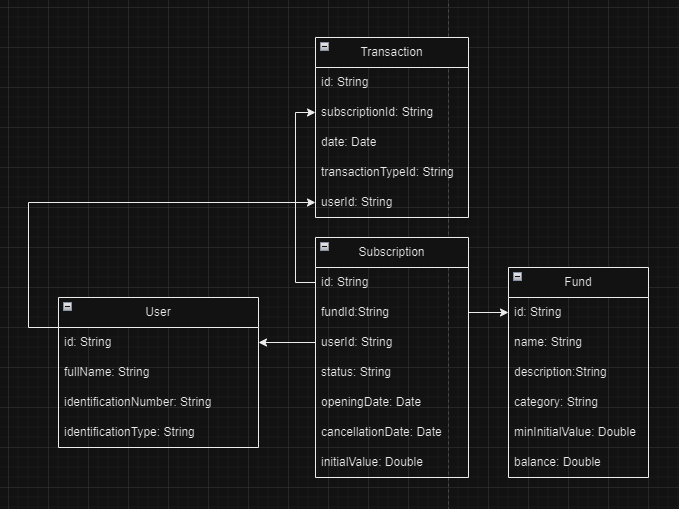
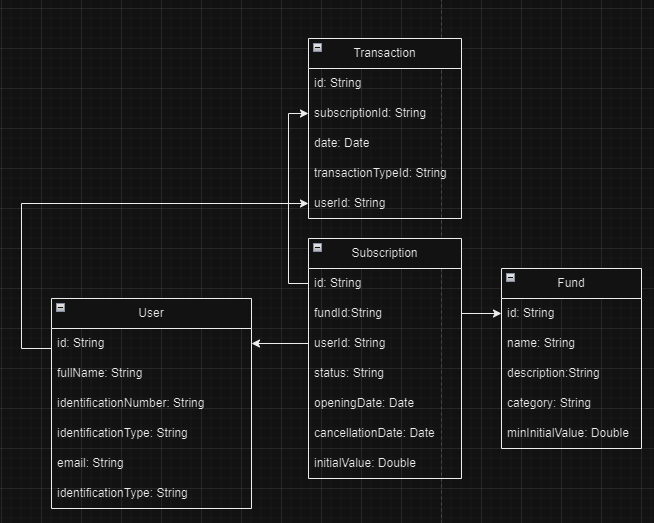
Add config email in TransactionService

Changed region(s): [[0.0306, 0.0589, 0.9786, 0.9725], [0.0306, 0.4715, 0.0612, 0.501]]

diff --git a/src/main/java/com/co/fundmanagement/service/impl/EmailService.java b/src/main/java/com/co/fundmanagement/service/impl/EmailService.java
@@ -8,6 +8,9 @@ import org.springframework.mail.javamail.JavaMailSender;
 import org.springframework.stereotype.Service;
 import reactor.core.publisher.Mono;
 
+import static com.co.fundmanagement.enums.MessageEnum.MESSAGE_SEND_EMAIL;
+import static com.co.fundmanagement.enums.MessageEnum.SUBJECT;
+
 @Service
 public class EmailService implements IEmailService {
 
@@ -18,12 +21,12 @@ public class EmailService implements IEmailService {
     private JavaMailSender mailSender;
 
     @Override
-    public Mono<Void> sendEmail(String toUser, String subject, String message) {
+    public Mono<Void> sendEmail(String toUser) {
         SimpleMailMessage mailMessage = new SimpleMailMessage();
         mailMessage.setFrom(emailUser);
         mailMessage.setTo(toUser);
-        mailMessage.setSubject(subject);
-        mailMessage.setText(message);
+        mailMessage.setSubject(SUBJECT.getMessage());
+        mailMessage.setText(MESSAGE_SEND_EMAIL.getMessage());
 
         mailSender.send(mailMessage);
         return Mono.empty();

diff --git a/src/main/java/com/co/fundmanagement/service/impl/FundService.java b/src/main/java/com/co/fundmanagement/service/impl/FundService.java
@@ -42,13 +42,11 @@ public class FundService implements IFundService {
                         .name(request.getName())
                         .description(request.getDescription())
                         .minInitialValue(request.getMinInitialValue())
-                        .balance(requestFund.getBalance())
                         .build())
                 .switchIfEmpty(Mono.just(Fund.builder()
                         .name(request.getName())
                         .description(request.getDescription())
                         .minInitialValue(request.getMinInitialValue())
-                        .balance(0.0)
                         .build()))
                 .flatMap(fund -> fundRepository.save(fund))
                 .map(fund -> createResponse(fund, CREATE_FUND.getMessage()));

diff --git a/src/main/java/com/co/fundmanagement/service/impl/TransactionService.java b/src/main/java/com/co/fundmanagement/service/impl/TransactionService.java
@@ -86,7 +86,7 @@ public class TransactionService implements ITransactionService {
                 .flatMap(updateUser -> userRepository.save(updateUser))
                 .map(fundSaved -> createSubscription(request))
                 .flatMap(subscriptionSave -> subscriptionRepository.save(subscriptionSave)
-                        .flatMap(subs -> emailService.sendEmail("amvelasquez9621@gmail.com","Suscripcion exitosa","Se ha suscrito al fondo"))
+                        .flatMap(subs -> emailService.sendEmail(user.getEmail()))
                         .thenReturn(subscriptionSave))
                 .map(subscriptionSaved -> createTransactionObject(subscriptionSaved, request))
                 .flatMap(transaction -> transactionRepository.save(transaction))

diff --git a/src/main/java/com/co/fundmanagement/enums/MessageEnum.java b/src/main/java/com/co/fundmanagement/enums/MessageEnum.java
@@ -10,6 +10,8 @@ import lombok.NoArgsConstructor;
 public enum MessageEnum {
     SUBSCRIPTION_OPENING("Subscripcion iniciada con exito"),
     SUBSCRIPTION_CANCELLED("Subscripcion cancelada con exito - El valor inicial de la vinculacion fue devuelto"),
+    MESSAGE_SEND_EMAIL("Se ha suscrito al fondo de manera exitosa"),
+    SUBJECT("Mensaje desde fund management amv"),
     CREATE_FUND("Result create fund");
     private String message;
 }

diff --git a/src/main/java/com/co/fundmanagement/factory/FactoryObject.java b/src/main/java/com/co/fundmanagement/factory/FactoryObject.java
@@ -14,7 +14,6 @@ public class FactoryObject {
                 .name(fund.getName())
                 .description(fund.getDescription())
                 .minInitialValue(fund.getMinInitialValue())
-                .balance(balance)
                 .build();
     }
 

diff --git a/src/main/java/com/co/fundmanagement/service/IEmailService.java b/src/main/java/com/co/fundmanagement/service/IEmailService.java
@@ -3,5 +3,5 @@ package com.co.fundmanagement.service;
 import reactor.core.publisher.Mono;
 
 public interface IEmailService {
-    Mono<Void> sendEmail(String toUser, String subject, String message);
+    Mono<Void> sendEmail(String toUser);
 }

diff --git a/src/main/java/com/co/fundmanagement/model/User.java b/src/main/java/com/co/fundmanagement/model/User.java
@@ -19,4 +19,5 @@ public class User {
     private String identificationNumber;
     private String identificationType;
     private Double availableBalance;
+    private String email;
 }

diff --git a/README.md b/README.md
@@ -5,7 +5,7 @@ _Edición: 2024_
 ## Planteamiento
 Se plantea crear un microservicio reactivo debido a que Fund Management AMV es un sistema que tendra altos niveles de concurrencia y escalabilidad, para esto decidimos utilizar springboot como framework principal y utilizar webflux como la libreria que nos permite crear flujos asincronos, de esta manera tendremos nuestra aplicacion reactiva, luego utilizamos una base de datos de Mongodb (ReactiveMongoRepository) al extender de esta clase garantizamos el flujo completo de nuestras transacciones asincronas permitiendo asi que desde las consultas a bases de datos recibamos flujos reactivos.
 
-Tambien se plantea utilizar MVC como arquitectura base para crear (Controllers, models, resposity, services), implementar swagger para la documentacion de las apis y realizar pruebas unitarias utilizando JUnit 5  garantizando un 90% de la covertura de las pruebas, a nivel de servicios, objetos y servicios.
+Tambien se plantea utilizar MVC como arquitectura base para crear (Controllers, models, resposity, services), implementar swagger para la documentacion de las apis y realizar pruebas unitarias utilizando JUnit 5  garantizando un 80% de la covertura de las pruebas, a nivel de servicios, objetos y servicios.
 
 A nivel de seguridad se plantea utilizar JWT Spring security.
 
